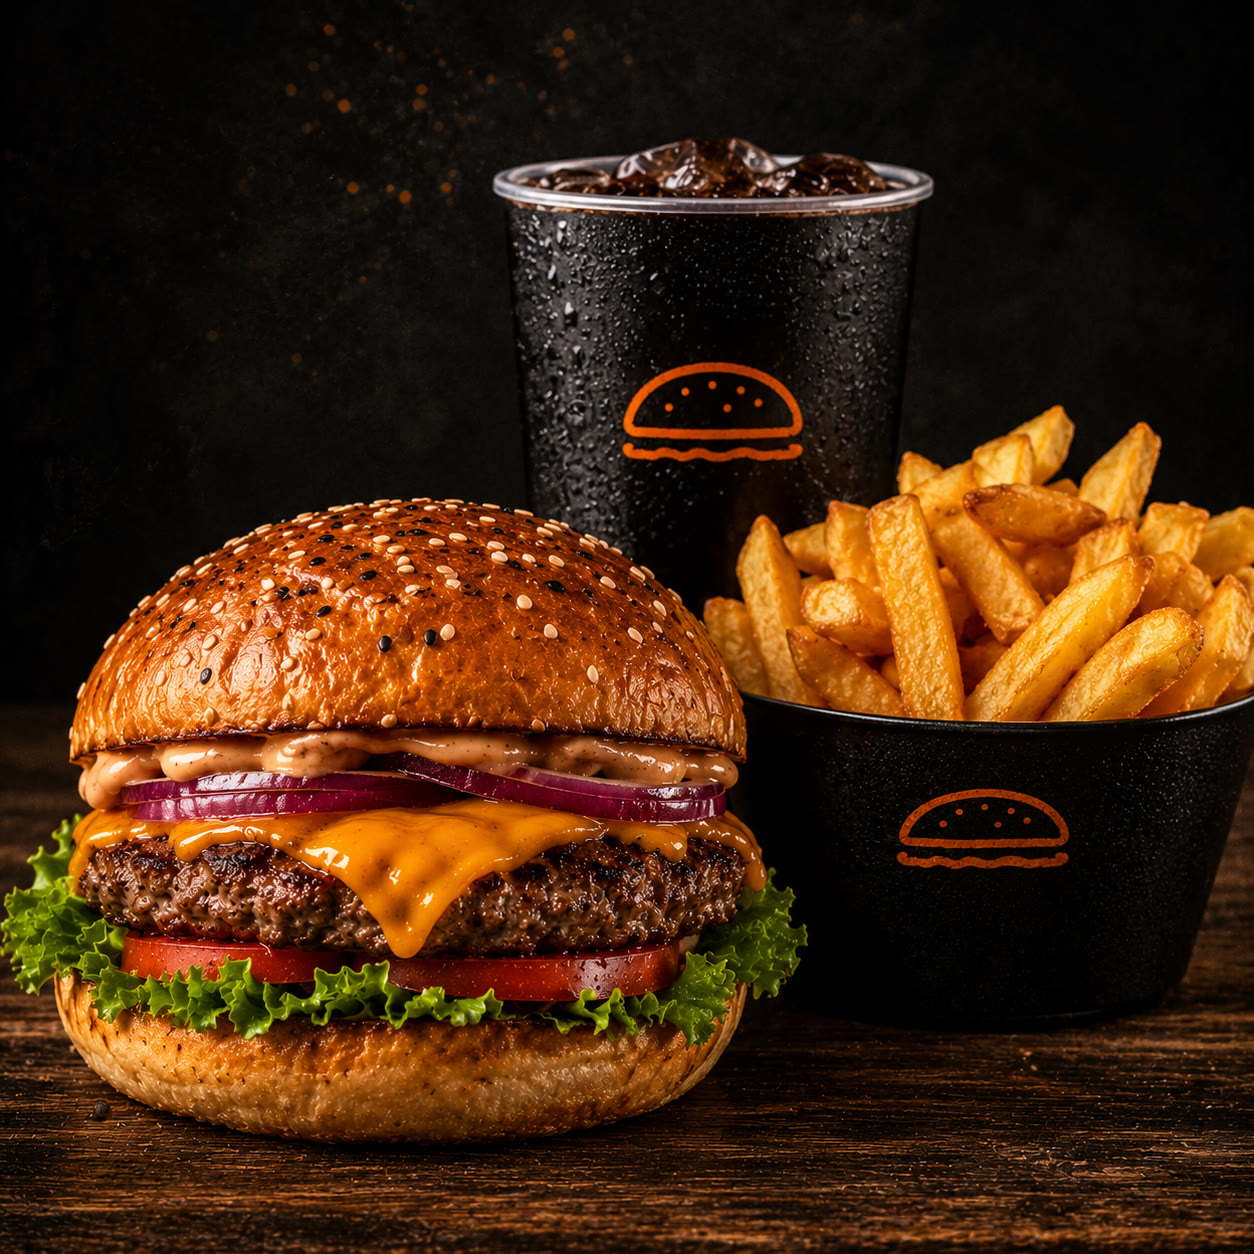
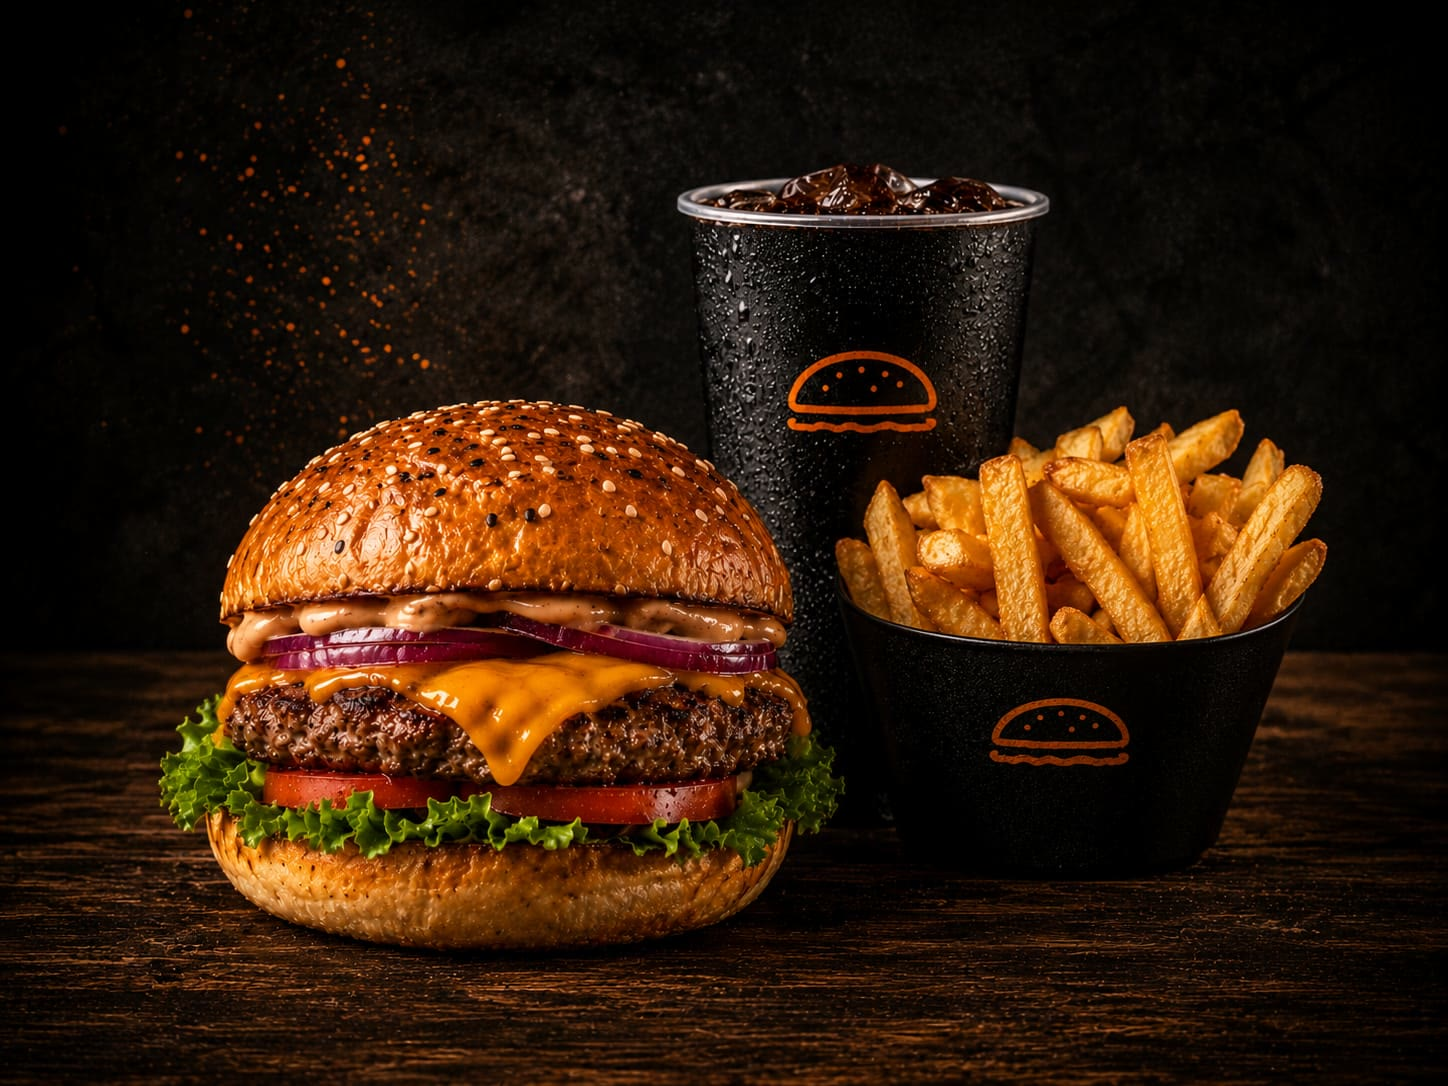
Fix editor toast flicker, more realistic mockup, correct product photos
- editor-director.js: silence showToast/debouncedSave during the scripted
  demo. They're timer-driven (CSS class + setTimeout auto-hide); replaying
  the real functions on every rendered video frame was re-triggering those
  timers dozens of times a second, which looked like broken/buggy UI in
  motion even though each still frame was correct.
- PhoneMockup: thinner bezel, titanium-style frame gradient with a beveled
  inner ring, contact shadow, and camera-control/action-button details for
  a more realistic high-end 2026 phone.
- Fixed a file-mapping mistake from the previous product-photo swap (each
  photo was paired with the wrong product name) and swapped in the
  uncropped versions the user provided.

Claude-Session: https://claude.ai/code/session_01JwPsDrd4CvYpow79y6PKM2

diff --git a/src/components/PhoneMockup.tsx b/src/components/PhoneMockup.tsx
@@ -11,10 +11,12 @@ type Props = {
 };
 
 /**
- * A premium, realistic phone shell built entirely from CSS (gradients,
- * shadows, a highlight sweep) — no external mockup images. The real Wapi
- * page renders inside the screen cutout via WapiIframe, scaled to fit
- * exactly.
+ * A premium, high-end 2026-flagship-style phone shell built entirely from
+ * CSS (gradients, layered shadows, a highlight sweep) — no external mockup
+ * images. Ultra-thin bezels, a titanium-style beveled frame, camera
+ * control + action button details, and a soft contact shadow for that
+ * "floating product shot" look. The real Wapi page renders inside the
+ * screen cutout via WapiIframe, scaled to fit exactly.
  */
 export const PhoneMockup: React.FC<Props> = ({
   width,
@@ -24,101 +26,155 @@ export const PhoneMockup: React.FC<Props> = ({
   sheenPosition = 0.3,
 }) => {
   const height = width * 2.162;
-  const bezel = width * 0.032;
-  const bodyRadius = width * 0.135;
-  const screenRadius = bodyRadius - bezel * 0.55;
+  const bezel = width * 0.017;
+  const bodyRadius = width * 0.125;
+  const screenRadius = bodyRadius - bezel * 0.4;
   const screenWidth = width - bezel * 2;
   const screenHeight = height - bezel * 2;
   const scale = screenWidth / WAPI_VIEWPORT_WIDTH;
 
   return (
-    <div
-      style={{
-        position: "relative",
-        width,
-        height,
-        borderRadius: bodyRadius,
-        background:
-          "linear-gradient(155deg, #3a3d3f 0%, #101213 22%, #0a0b0c 55%, #232527 82%, #3a3d3f 100%)",
-        boxShadow:
-          "0 60px 120px -20px rgba(0,0,0,0.75), 0 20px 45px -10px rgba(0,0,0,0.55), inset 0 0 0 1.5px rgba(255,255,255,0.08)",
-        padding: bezel,
-      }}
-    >
-      {/* Screen */}
+    <div style={{ position: "relative", width, height }}>
+      {/* Soft contact shadow grounding the phone against the backdrop */}
+      <div
+        style={{
+          position: "absolute",
+          left: "8%",
+          right: "8%",
+          bottom: -height * 0.05,
+          height: height * 0.09,
+          borderRadius: "50%",
+          background: "radial-gradient(ellipse, rgba(0,0,0,0.55) 0%, rgba(0,0,0,0) 72%)",
+          filter: "blur(4px)",
+        }}
+      />
+
+      {/* Titanium frame */}
       <div
         style={{
           position: "relative",
-          width: screenWidth,
-          height: screenHeight,
-          borderRadius: screenRadius,
-          overflow: "hidden",
-          background: "#000",
-          boxShadow: "inset 0 0 0 1px rgba(0,0,0,0.6)",
+          width,
+          height,
+          borderRadius: bodyRadius,
+          background:
+            "linear-gradient(150deg, #55585b 0%, #2a2c2e 12%, #131415 30%, #0a0a0b 50%, #17191a 66%, #3d4042 85%, #57595c 100%)",
+          boxShadow:
+            "0 70px 130px -24px rgba(0,0,0,0.8), 0 24px 50px -12px rgba(0,0,0,0.6), inset 0 0 0 1px rgba(255,255,255,0.14), inset 0 0.5px 0.5px rgba(255,255,255,0.35)",
+          padding: bezel,
         }}
       >
-        <WapiIframe src={src} scale={scale} onReady={onReady} driveFrame={driveFrame} />
-
-        {/* Glass reflection sweep */}
+        {/* Inner bevel ring — separates frame from screen with a hairline of depth */}
         <div
           style={{
             position: "absolute",
-            inset: 0,
+            inset: bezel * 0.35,
+            borderRadius: bodyRadius - bezel * 0.35,
+            boxShadow: "inset 0 0 0 1px rgba(0,0,0,0.65), inset 0 1px 1.5px rgba(0,0,0,0.5)",
             pointerEvents: "none",
-            background: `linear-gradient(115deg, rgba(255,255,255,0) ${
-              sheenPosition * 100 - 22
-            }%, rgba(255,255,255,0.16) ${sheenPosition * 100}%, rgba(255,255,255,0) ${
-              sheenPosition * 100 + 22
-            }%)`,
-            mixBlendMode: "overlay",
           }}
         />
 
-        {/* Subtle top/bottom vignette to sell depth against the screen glass */}
+        {/* Screen */}
+        <div
+          style={{
+            position: "relative",
+            width: screenWidth,
+            height: screenHeight,
+            borderRadius: screenRadius,
+            overflow: "hidden",
+            background: "#000",
+            boxShadow: "inset 0 0 0 1px rgba(0,0,0,0.7)",
+          }}
+        >
+          <WapiIframe src={src} scale={scale} onReady={onReady} driveFrame={driveFrame} />
+
+          {/* Glass reflection sweep */}
+          <div
+            style={{
+              position: "absolute",
+              inset: 0,
+              pointerEvents: "none",
+              background: `linear-gradient(115deg, rgba(255,255,255,0) ${
+                sheenPosition * 100 - 24
+              }%, rgba(255,255,255,0.05) ${sheenPosition * 100 - 8}%, rgba(255,255,255,0.22) ${
+                sheenPosition * 100
+              }%, rgba(255,255,255,0.05) ${sheenPosition * 100 + 8}%, rgba(255,255,255,0) ${
+                sheenPosition * 100 + 24
+              }%)`,
+              mixBlendMode: "overlay",
+            }}
+          />
+
+          {/* Subtle top/bottom vignette to sell depth against the screen glass */}
+          <div
+            style={{
+              position: "absolute",
+              inset: 0,
+              pointerEvents: "none",
+              boxShadow: "inset 0 3px 10px rgba(0,0,0,0.35), inset 0 -3px 10px rgba(0,0,0,0.25)",
+            }}
+          />
+        </div>
+
+        {/* ── Right edge: power button + camera control ── */}
         <div
           style={{
             position: "absolute",
-            inset: 0,
-            pointerEvents: "none",
-            boxShadow: "inset 0 3px 10px rgba(0,0,0,0.35), inset 0 -3px 10px rgba(0,0,0,0.25)",
+            right: -2.5,
+            top: height * 0.165,
+            width: 3.5,
+            height: height * 0.052,
+            borderRadius: 2,
+            background: "linear-gradient(90deg, #1a1c1d, #5a5d60 45%, #1a1c1d)",
+          }}
+        />
+        <div
+          style={{
+            position: "absolute",
+            right: -2.5,
+            top: height * 0.235,
+            width: 3.5,
+            height: height * 0.028,
+            borderRadius: 2,
+            background: "linear-gradient(90deg, #1a1c1d, #5a5d60 45%, #1a1c1d)",
+          }}
+        />
+
+        {/* ── Left edge: action button + volume rocker ── */}
+        <div
+          style={{
+            position: "absolute",
+            left: -2.5,
+            top: height * 0.1,
+            width: 3.5,
+            height: height * 0.022,
+            borderRadius: 2,
+            background: "linear-gradient(270deg, #1a1c1d, #5a5d60 45%, #1a1c1d)",
+          }}
+        />
+        <div
+          style={{
+            position: "absolute",
+            left: -2.5,
+            top: height * 0.15,
+            width: 3.5,
+            height: height * 0.045,
+            borderRadius: 2,
+            background: "linear-gradient(270deg, #1a1c1d, #5a5d60 45%, #1a1c1d)",
+          }}
+        />
+        <div
+          style={{
+            position: "absolute",
+            left: -2.5,
+            top: height * 0.205,
+            width: 3.5,
+            height: height * 0.045,
+            borderRadius: 2,
+            background: "linear-gradient(270deg, #1a1c1d, #5a5d60 45%, #1a1c1d)",
           }}
         />
       </div>
-
-      {/* Side button details */}
-      <div
-        style={{
-          position: "absolute",
-          right: -2,
-          top: height * 0.19,
-          width: 3,
-          height: height * 0.07,
-          borderRadius: 2,
-          background: "linear-gradient(#4a4d4f, #1a1c1d)",
-        }}
-      />
-      <div
-        style={{
-          position: "absolute",
-          left: -2,
-          top: height * 0.14,
-          width: 3,
-          height: height * 0.035,
-          borderRadius: 2,
-          background: "linear-gradient(#4a4d4f, #1a1c1d)",
-        }}
-      />
-      <div
-        style={{
-          position: "absolute",
-          left: -2,
-          top: height * 0.19,
-          width: 3,
-          height: height * 0.06,
-          borderRadius: 2,
-          background: "linear-gradient(#4a4d4f, #1a1c1d)",
-        }}
-      />
     </div>
   );
 };

diff --git a/public/wapi-real/burger-house/editor.html b/public/wapi-real/burger-house/editor.html
@@ -8304,10 +8304,27 @@ window.__wapiDirector = (function () {
     dt.items.add(file);
     input.files = dt.files;
     input.dispatchEvent(new Event("change", { bubbles: true }));
-    // handleProductImg() reads the file via FileReader (async) — give it a
-    // beat to finish before the caller moves on.
+    // handleProductImg() reads the file via FileReader, then (async, via
+    // the shim) "uploads" it and re-renders with the final src — poll for
+    // that instead of guessing a fixed delay, so this is correct
+    // regardless of how fast/slow the render environment is.
+    return waitUntil(function () {
+      var img = document.querySelector("#modalImgsGrid img");
+      return !!(img && img.getAttribute("src"));
+    });
+  }
+
+  function waitUntil(predicate, timeoutMs) {
+    var start = Date.now();
+    var limit = timeoutMs || 2000;
     return new Promise(function (resolve) {
-      setTimeout(resolve, 60);
+      (function poll() {
+        if (predicate() || Date.now() - start > limit) {
+          resolve();
+          return;
+        }
+        setTimeout(poll, 16);
+      })();
     });
   }
 
@@ -8316,6 +8333,20 @@ window.__wapiDirector = (function () {
     products.length = 0;
     if (typeof renderProducts === "function") renderProducts();
     if (typeof renderCategories === "function") renderCategories();
+  }
+
+  // The real toast/save-indicator are timer-driven (CSS class + setTimeout
+  // auto-hide). Since Remotion re-runs replay() on every rendered video
+  // frame, calling the real functions unconditionally would re-trigger
+  // those timers dozens of times a second — the toast never gets to finish
+  // its own animation, so it looks like flickering/broken UI in the final
+  // video. Silencing them here only affects this scripted demo; it doesn't
+  // touch how toasts behave for a real user.
+  if (typeof showToast === "function") {
+    showToast = function () {};
+  }
+  if (typeof debouncedSave === "function") {
+    debouncedSave = function () {};
   }
 
   var demoImageDataUrl = null;
